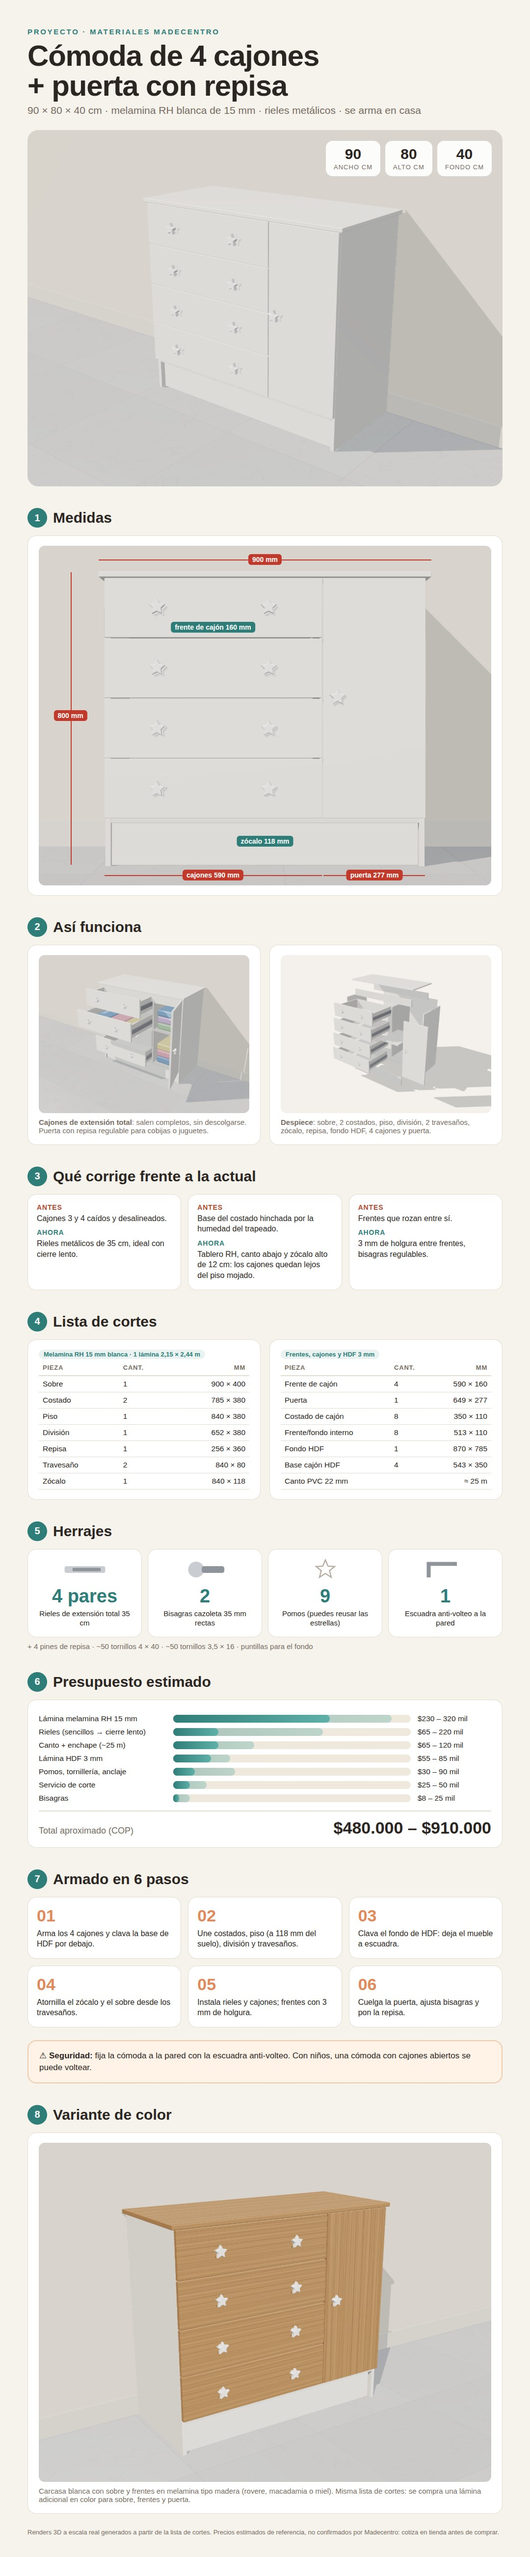
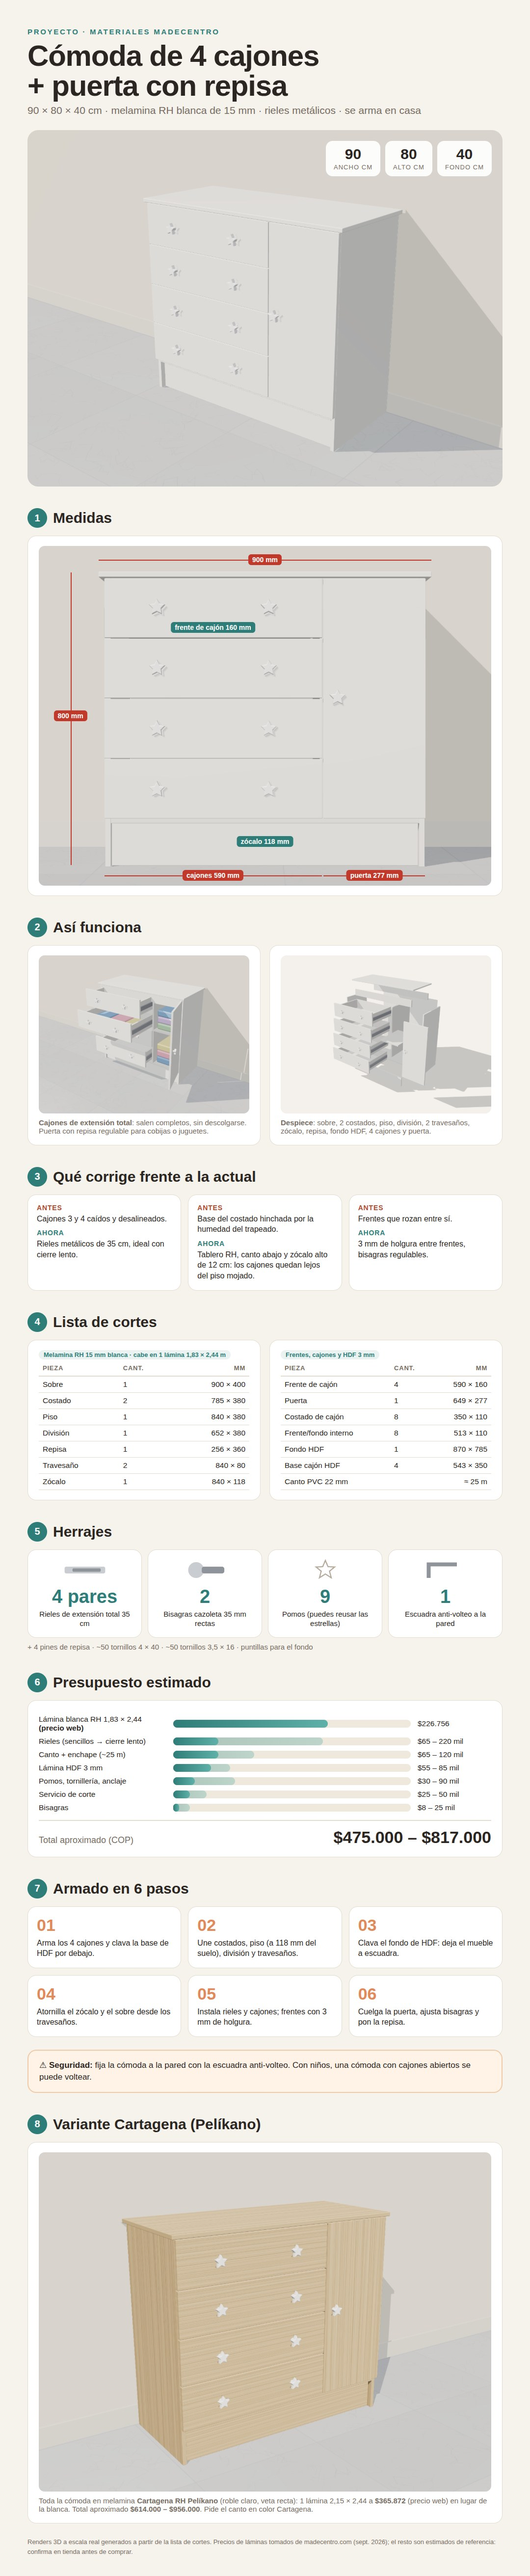
Use real Madecentro board prices and add Cartagena variant
Cut list verified to fit a 1.83 x 2.44 m board; budget, infographic and
color render updated with prices from madecentro.com.

Claude-Session: https://claude.ai/code/session_01XMcjiDKJH1abFKH7Jm1Dip

diff --git a/comoda-madecentro/fuente/infografia.html b/comoda-madecentro/fuente/infografia.html
@@ -99,7 +99,7 @@ td.num{text-align:right;font-variant-numeric:tabular-nums;white-space:nowrap}
 <h2><span class="n">4</span>Lista de cortes</h2>
 <div class="grid2">
 <div class="card">
-  <div style="margin-bottom:10px"><span class="pill">Melamina RH 15 mm blanca · 1 lámina 2,15 × 2,44 m</span></div>
+  <div style="margin-bottom:10px"><span class="pill">Melamina RH 15 mm blanca · cabe en 1 lámina 1,83 × 2,44 m</span></div>
   <table>
     <tr><th>Pieza</th><th>Cant.</th><th style="text-align:right">mm</th></tr>
     <tr><td>Sobre</td><td>1</td><td class="num">900 × 400</td></tr>
@@ -145,14 +145,14 @@ td.num{text-align:right;font-variant-numeric:tabular-nums;white-space:nowrap}
 
 <h2><span class="n">6</span>Presupuesto estimado</h2>
 <div class="card bars">
-  <div class="row"><span>Lámina melamina RH 15 mm</span><div class="bar"><i style="left:0;width:92%;opacity:.35"></i><i style="left:0;width:66%"></i></div><span class="num">$230 – 320 mil</span></div>
+  <div class="row"><span>Lámina blanca RH 1,83 × 2,44 <b>(precio web)</b></span><div class="bar"><i style="left:0;width:65%"></i></div><span class="num">$226.756</span></div>
   <div class="row"><span>Rieles (sencillos → cierre lento)</span><div class="bar"><i style="left:0;width:63%;opacity:.35"></i><i style="left:0;width:19%"></i></div><span class="num">$65 – 220 mil</span></div>
   <div class="row"><span>Canto + enchape (~25 m)</span><div class="bar"><i style="left:0;width:34%;opacity:.35"></i><i style="left:0;width:19%"></i></div><span class="num">$65 – 120 mil</span></div>
   <div class="row"><span>Lámina HDF 3 mm</span><div class="bar"><i style="left:0;width:24%;opacity:.35"></i><i style="left:0;width:16%"></i></div><span class="num">$55 – 85 mil</span></div>
   <div class="row"><span>Pomos, tornillería, anclaje</span><div class="bar"><i style="left:0;width:26%;opacity:.35"></i><i style="left:0;width:9%"></i></div><span class="num">$30 – 90 mil</span></div>
   <div class="row"><span>Servicio de corte</span><div class="bar"><i style="left:0;width:14%;opacity:.35"></i><i style="left:0;width:7%"></i></div><span class="num">$25 – 50 mil</span></div>
   <div class="row"><span>Bisagras</span><div class="bar"><i style="left:0;width:7%;opacity:.35"></i><i style="left:0;width:2.5%"></i></div><span class="num">$8 – 25 mil</span></div>
-  <div class="total"><span style="font-size:18px;color:var(--muted)">Total aproximado (COP)</span><b>$480.000 – $910.000</b></div>
+  <div class="total"><span style="font-size:18px;color:var(--muted)">Total aproximado (COP)</span><b>$475.000 – $817.000</b></div>
 </div>
 
 <h2><span class="n">7</span>Armado en 6 pasos</h2>
@@ -167,8 +167,8 @@ td.num{text-align:right;font-variant-numeric:tabular-nums;white-space:nowrap}
 
 <div class="alert"><b>⚠ Seguridad:</b> fija la cómoda a la pared con la escuadra anti-volteo. Con niños, una cómoda con cajones abiertos se puede voltear.</div>
 
-<h2><span class="n">8</span>Variante de color</h2>
-<div class="card"><img src="../renders/5-variante-madera.png"><div class="cap">Carcasa blanca con sobre y frentes en melamina tipo madera (rovere, macadamia o miel). Misma lista de cortes: se compra una lámina adicional en color para sobre, frentes y puerta.</div></div>
+<h2><span class="n">8</span>Variante Cartagena (Pelíkano)</h2>
+<div class="card"><img src="../renders/5-variante-cartagena.png"><div class="cap">Toda la cómoda en melamina <b>Cartagena RH Pelíkano</b> (roble claro, veta recta): 1 lámina 2,15 × 2,44 a <b>$365.872</b> (precio web) en lugar de la blanca. Total aproximado <b>$614.000 – $956.000</b>. Pide el canto en color Cartagena.</div></div>
 
-<div class="foot">Renders 3D a escala real generados a partir de la lista de cortes. Precios estimados de referencia, no confirmados por Madecentro: cotiza en tienda antes de comprar.</div>
+<div class="foot">Renders 3D a escala real generados a partir de la lista de cortes. Precios de láminas tomados de madecentro.com (sept. 2026); el resto son estimados de referencia: confirma en tienda antes de comprar.</div>
 </div></body></html>

diff --git a/comoda-madecentro/fuente/scene.html b/comoda-madecentro/fuente/scene.html
@@ -64,7 +64,7 @@ function woodTex(base, dark, seed) {
     }
   });
 }
-const rovere = woodTex('#b58d63', 'rgba(90,58,30,A)', 3);
+const rovere = woodTex('#d6bd98', 'rgba(125,95,60,A)', 3); // Cartagena (Pelíkano)
 
 // ---------- materials ----------
 const M = {
@@ -83,6 +83,8 @@ M.woodH = new THREE.MeshStandardMaterial({ map: rovereH, roughness: 0.55 });
 const FRONT = VIEW === 'color' ? M.woodH : M.white;
 const DOOR = VIEW === 'color' ? M.wood : M.white;
 const TOP = VIEW === 'color' ? M.woodH : M.white;
+const SIDE = VIEW === 'color' ? M.wood : M.white;
+const PLINTH = VIEW === 'color' ? M.woodH : M.white;
 
 // ---------- helpers (units: mm → m) ----------
 const mm = v => v / 1000;
@@ -117,11 +119,11 @@ const ex = (v) => EX ? v : 0; // explode offsets
 // Medidas: 900 x 800 x 400 mm; frentes de cajón 590 x 160
 function carcass() {
   box(0, 900, 785, 800, 0, 400, TOP, root, 2).position.y += mm(ex(240));                   // sobre
-  box(15, 30, 0, 785, 0, 380, M.white).position.x -= mm(ex(150));                          // costado izq
-  box(870, 885, 0, 785, 0, 380, M.white).position.x += mm(ex(150));                        // costado der
-  box(30, 870, 118, 133, 0, 380, M.whiteIn).position.y -= mm(ex(40));                      // piso
+  box(15, 30, 0, 785, 0, 380, SIDE).position.x -= mm(ex(150));                          // costado izq
+  box(870, 885, 0, 785, 0, 380, SIDE).position.x += mm(ex(150));                        // costado der
+  box(30, 870, 118, 133, 0, 380, VIEW === "color" ? M.woodH : M.whiteIn).position.y -= mm(ex(40));                      // piso
   box(599, 614, 133, 785, 0, 380, M.whiteIn);                                              // división
-  box(30, 870, 0, 118, 345, 360, M.white).position.set(mm(450), mm(59) - mm(ex(110)), mm(352.5) + mm(ex(180))); // zócalo
+  box(30, 870, 0, 118, 345, 360, PLINTH).position.set(mm(450), mm(59) - mm(ex(110)), mm(352.5) + mm(ex(180))); // zócalo
   box(30, 870, 705, 785, 365, 380, M.whiteIn).position.y += mm(ex(130));                   // travesaño frente
   box(30, 870, 705, 785, 0, 15, M.whiteIn).position.y += mm(ex(130));                      // travesaño atrás
   box(614, 870, 450, 465, 20, 380, M.whiteIn).position.z += mm(ex(240));                   // repisa

diff --git a/comoda-madecentro/README.md b/comoda-madecentro/README.md
@@ -4,9 +4,9 @@ Réplica mejorada de la cómoda blanca de las fotos: **4 cajones a la izquierda 
 una puerta con repisa a la derecha**. Medidas exteriores **900 mm de ancho ×
 800 mm de alto × 400 mm de fondo**, con **frentes de cajón de 590 × 160 mm**.
 
-> ⚠ Los precios son **estimados de referencia**, no precios confirmados de
-> Madecentro (no se pudo abrir madecentro.com desde el entorno de trabajo).
-> Cotiza con esta lista de cortes antes de comprar.
+> 💲 Los precios de las **láminas de melamina** son los de madecentro.com
+> (capturas de sept. 2026). El resto (HDF, corte, canto, herrajes) siguen siendo
+> **estimados de referencia**: confírmalos en la tienda.
 
 ![Infografía](infografia.jpg)
 
@@ -16,9 +16,9 @@ una puerta con repisa a la derecha**. Medidas exteriores **900 mm de ancho ×
 |---|---|---|
 | ![](renders/1-cerrada.png) | ![](renders/2-abierta.png) | ![](renders/3-despiece.png) |
 
-| Frente | Variante madera |
+| Frente | Variante Cartagena |
 |---|---|
-| ![](renders/4-frente.png) | ![](renders/5-variante-madera.png) |
+| ![](renders/4-frente.png) | ![](renders/5-variante-cartagena.png) |
 
 Los renders son un modelo 3D a escala real hecho con la lista de cortes
 (`fuente/scene.html`, Three.js; vistas con `?view=hero|open|exploded|front|color`).
@@ -59,7 +59,20 @@ Columnas por dentro: cajones **569 mm** libres, puerta **256 mm** libres.
 
 Medidas en mm (largo × ancho). Canto: L = lado largo, C = lado corto.
 
-### Melamina RH 15 mm blanca — cabe en **1 lámina** de 2,15 × 2,44 m (sobra material)
+### Melamina RH 15 mm blanca — cabe en **1 lámina de 1,83 × 2,44 m** (la más barata)
+
+Despiece verificado en franjas a lo largo de 2440 mm (sierra de 4 mm):
+
+| Franja (alto) | Piezas | Largo usado |
+|---|---|---|
+| 400 mm | sobre + piso + repisa + 3 costados de cajón | 2350 mm |
+| 380 mm | 2 costados + división + 1 costado de cajón | 2348 mm |
+| 649 mm | 4 frentes + puerta + 8 frentes/fondos internos + 4 costados de cajón | 2305 mm |
+| 118 mm | zócalo | 844 mm |
+| 80 mm | 2 travesaños | 1688 mm |
+
+Alto total usado ≈ 1650 mm de 1830 mm: queda margen para el refilado del
+tablero. Si en la tienda no cabe con su optimizador, usa la de 2,15 × 2,44 m.
 
 | # | Pieza | Cant. | Medida | Canto |
 |---|---|---|---|---|
@@ -103,17 +116,39 @@ Medidas en mm (largo × ancho). Canto: L = lado largo, C = lado corto.
 
 | Concepto | Estimado |
 |---|---|
-| 1 lámina melamina RH 15 mm blanca | $230.000 – $320.000 |
+| 1 lámina melamina blanca RH Primadera **1,83 × 2,44** (precio web, −4 %) | **$226.756** |
 | 1 lámina HDF 3 mm | $55.000 – $85.000 |
 | Corte (26–35 piezas) | $25.000 – $50.000 |
 | Canto + enchape (~25 m) | $65.000 – $120.000 |
 | 4 pares de rieles 35 cm | $65.000 (sencillos) – $220.000 (cierre lento) |
 | 2 bisagras | $8.000 – $25.000 |
 | Pomos, pines, tornillería, anclaje | $30.000 – $90.000 |
-| **Total aproximado** | **≈ $480.000 – $910.000** |
+| **Total aproximado** | **≈ $475.000 – $817.000** |
 
-La lámina de melamina queda con bastante sobrante: alcanza para piezas extra
-(por ejemplo, una segunda repisa o una mesita de noche pequeña).
+### Precios de láminas vistos en madecentro.com
+
+| Lámina | Formato | Precio |
+|---|---|---|
+| Aglomerado melamina blanco RH Primadera | 1,83 × 2,44 | $226.756 (antes $236.204) |
+| Aglomerado melamina blanco RH Primadera | 2,15 × 2,44 | $266.410 (antes $277.510) |
+| Aglomerado melamina **Cartagena RH Pelíkano** | 2,15 × 2,44 | $365.872 |
+
+### Variante Cartagena (toda la cómoda en madera clara)
+
+Cambia la lámina blanca por **1 lámina Cartagena RH Pelíkano** ($365.872) y
+pide el **canto en color Cartagena**. Total aproximado **$614.000 – $956.000**.
+Ver render 5.
+
+> Combinar carcasa blanca con frentes Cartagena exige comprar **dos** láminas
+> (≈ $592.000 solo en melamina), así que sale más caro que hacerla toda en un color.
+
+## Recomendaciones de la ficha Pelíkano
+
+- Es para **interiores**: no debe recibir agua directa. Por eso el canto en el
+  borde inferior de los costados y el zócalo alto son importantes al trapear.
+- Resiste manchas (tinta, salsas), rayado y disolventes como alcohol: fácil de
+  limpiar en un cuarto de niños.
+- Está laminado por **ambas caras**, lo que evita que el tablero se tuerza.
 
 ## Armado
 
@@ -129,7 +164,14 @@ La lámina de melamina queda con bastante sobrante: alcanza para piezas extra
 
 ## Variantes fáciles
 
-- **Color:** sobre y frentes en madera (rovere, macadamia) con carcasa blanca
-  (ver render 5; requiere una lámina adicional en color).
+- **Color:** toda en Cartagena (render 5). Otros colores Pelíkano de la carta:
+  Almendra, Amaretto, Azul Marino, Espresso, Moka, Roble Ahumado, Roble Gris,
+  Siena, Cedro, Cerezo, Sangría, Páramo, Acero, Ártiko, Caramelo, Cemento,
+  Ceniza, Lino, Olmo, Oxid, White Chic, Blanco, Negro, Sombra, Mango, Plomo,
+  Coral, Gris, Manzano, Marfil, Olivo, Rovere, Sopelli, Wengue, Nevado,
+  Haya Catedral, Bronce, Miel, Habano y High Gloss (Negro, Beige, Blanco).
+  Esa carta es de Novopan Ecuador (2017): **confirma disponibilidad en Colombia**.
+  Para un cuarto infantil, Coral, Mango o Azul Marino funcionan bien como
+  acento (por ejemplo, solo en los frentes).
 - **Zócalo bajo:** frentes de ~17,5 cm y zócalo de 6 cm.
 - **Sobre más grueso:** en 25–30 mm o doble de 15 mm para que se vea más robusto.
